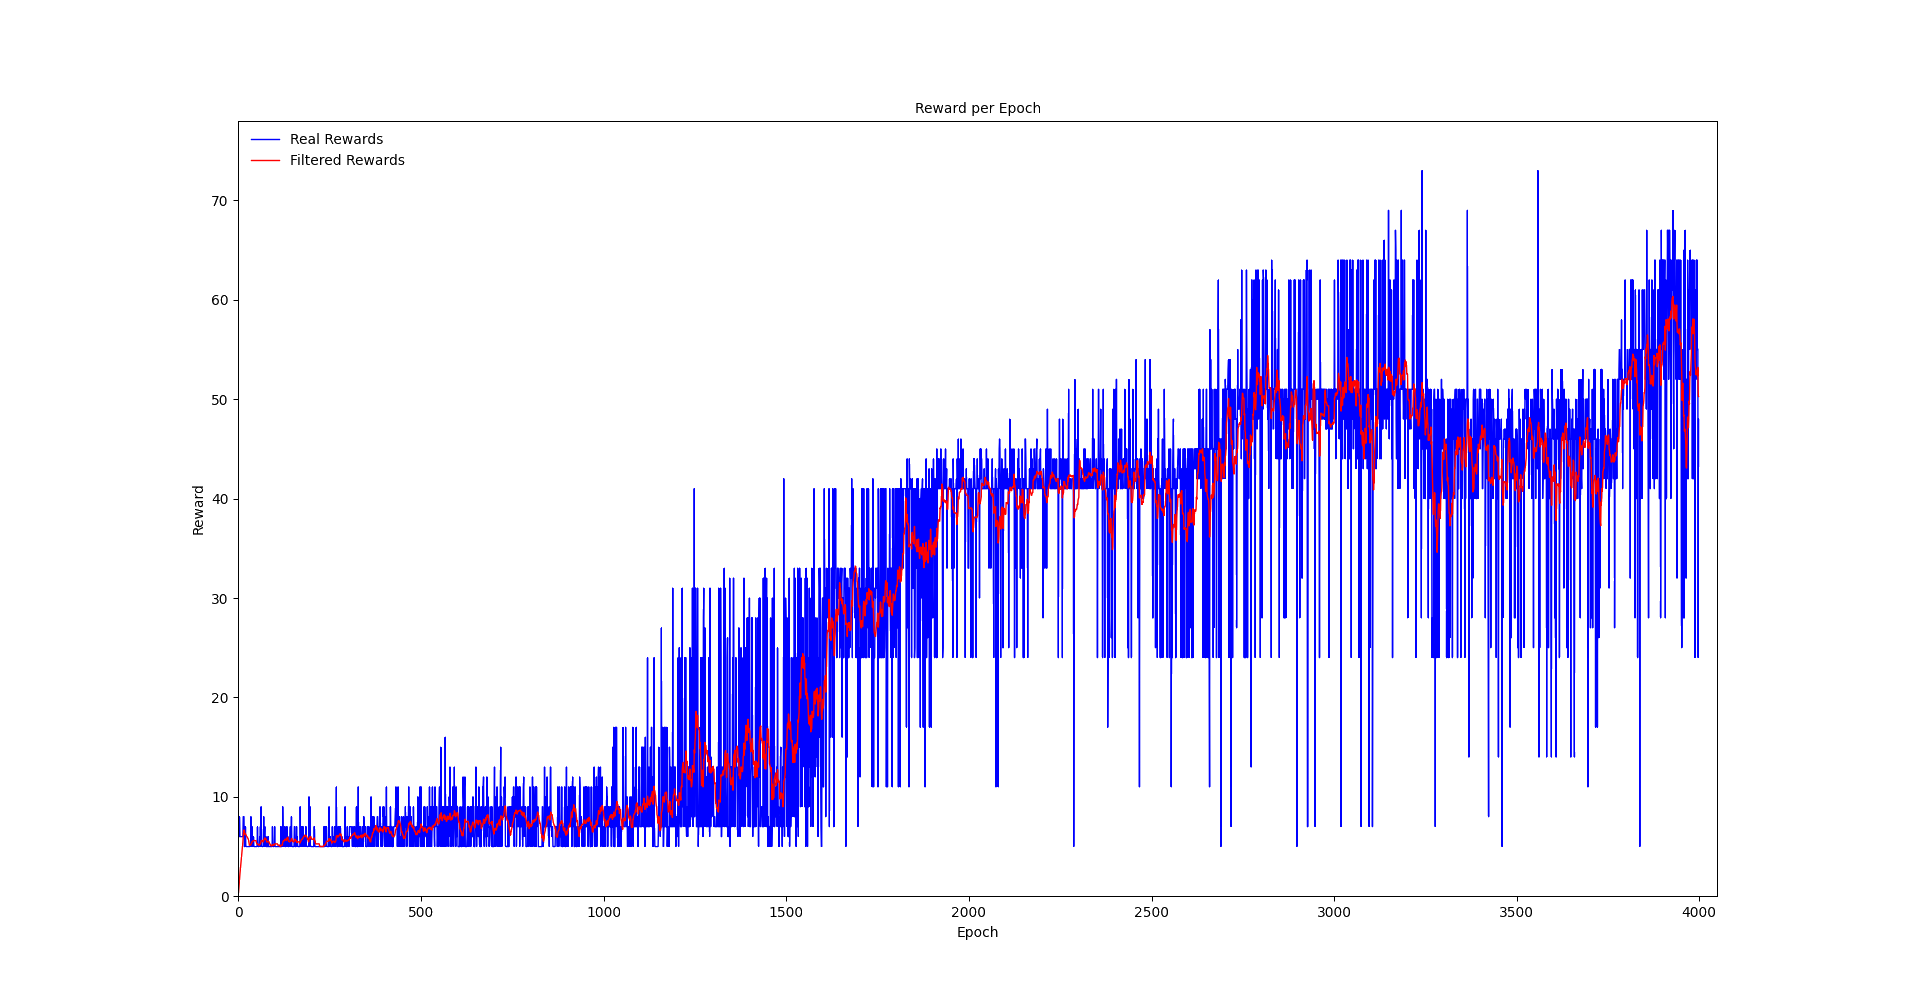
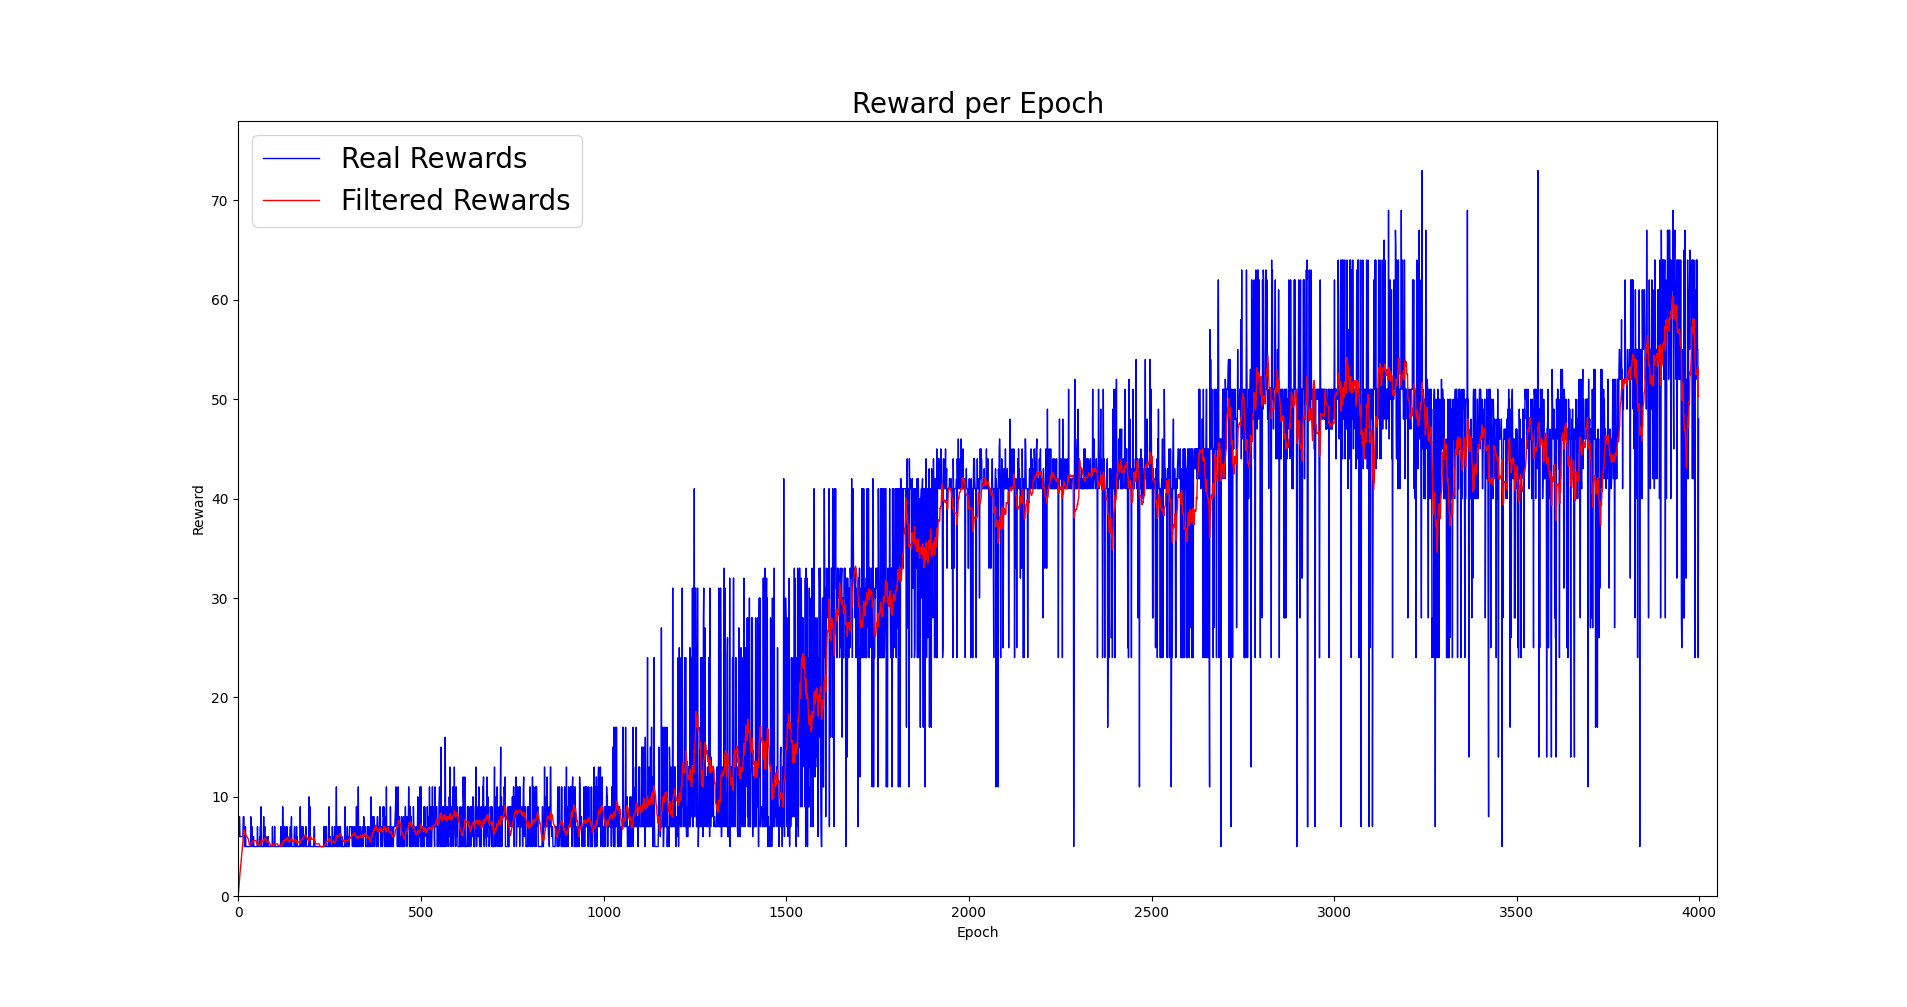
Change the size of graph plot

Changed region(s): [[0.1238, 0.1231, 0.3094, 0.2155], [0.4331, 0.0924, 0.5878, 0.1231]]

diff --git a/data_visualization.py b/data_visualization.py
@@ -22,8 +22,8 @@ def animate(i):
             linewidth=1, label='Real Rewards')
     ax.plot(num_epochs[:count], mean[:count], color='r', linestyle='-',
             linewidth=1, label='Filtered Rewards')
-    ax.set_title('Reward per Epoch', size=10)
-    ax.legend(loc=2, prop={'size':10})
+    ax.set_title('Reward per Epoch', size=20)
+    ax.legend(loc=2, prop={'size':20})
     ax.set_xlabel('Epoch')
     ax.set_ylabel('Reward')
     ax.set_xlim([0, len(rewards)+50])
